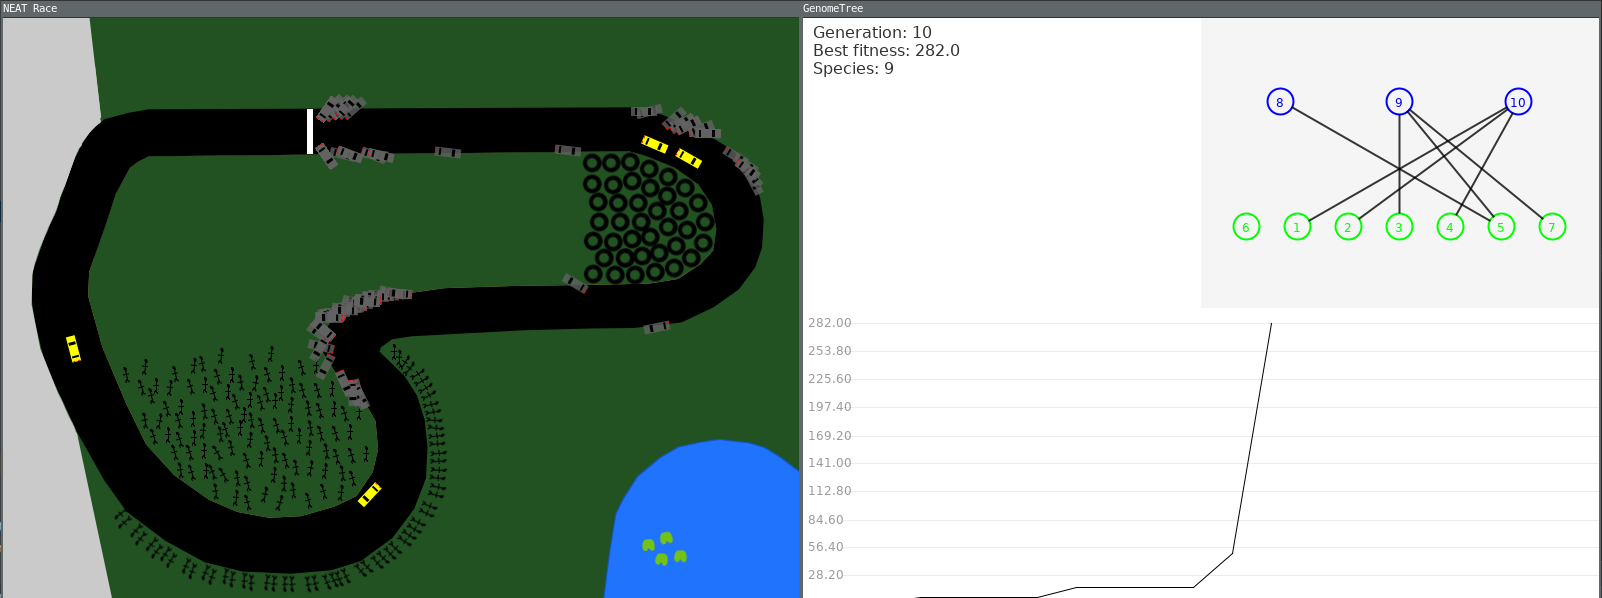
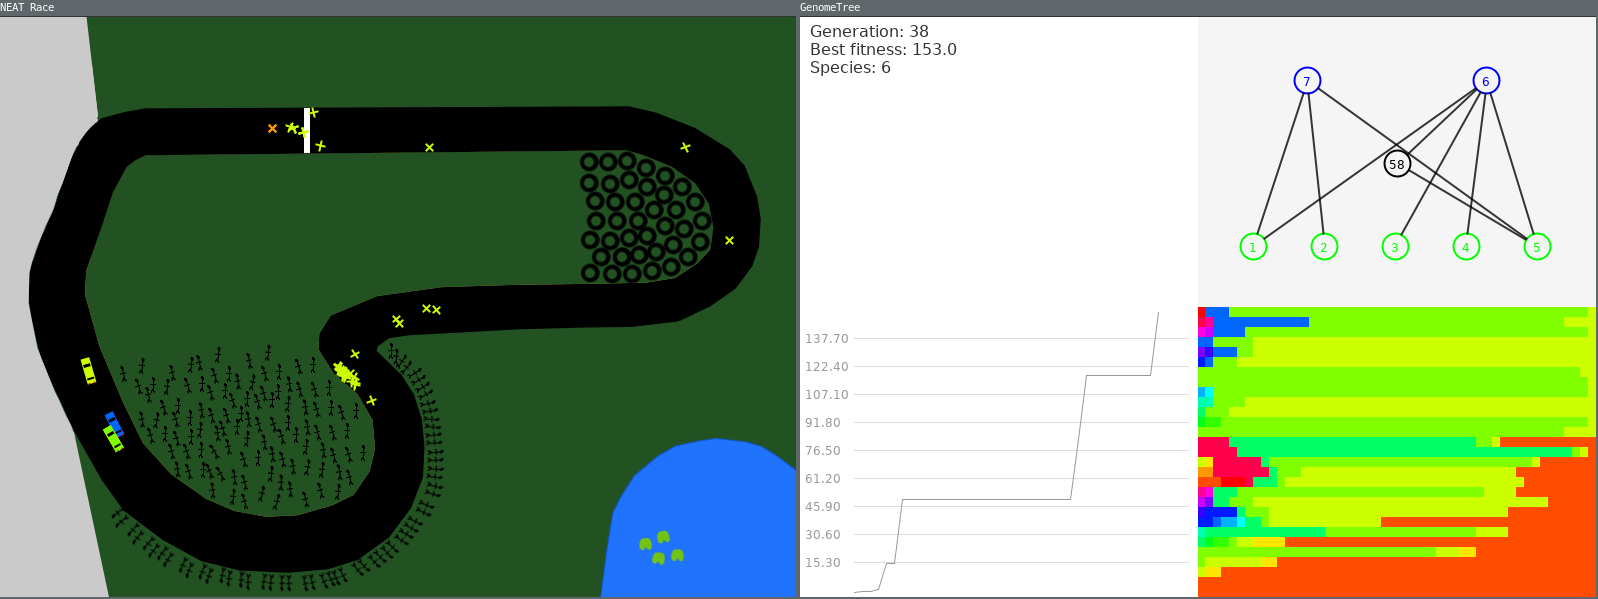
GUI moved from neat to neat-gui.

diff --git a/src/main/java/com/vadeen/race/gui/Race.java b/src/main/java/com/vadeen/race/gui/Race.java
@@ -26,7 +26,7 @@ import java.util.Collections;
 import java.util.List;
 
 public class Race {
-    private static final int TARGET_FITNESS = 200;
+    private static final int TARGET_FITNESS = 500;
     private static final int MAX_GENERATIONS = 500;
 
     private static final List<Sensor> SENSORS = Arrays.asList(
@@ -61,9 +61,9 @@ public class Race {
             // Show info about the new generation.
             visualPanel.addGeneration(g);
 
-
             // Simulate the best genome if it is better than the last simulation we saw.
             bestGenome = g.getBestGenome();
+
             if (bestGenome.getFitness() > lastFitness) {
                 raceContext.reset();
                 List<Species> allSpecies = copyAllSpecies(g);
@@ -114,6 +114,8 @@ public class Race {
 
     private static Neat createNEAT(GenomeEvaluator evaluator) {
         Neat neat = Neat.create(evaluator, SENSORS.size(), 2);
+
+        neat.getGenerationFactory().setPopulationSize(50);
 
         // Config mutator
         GenomeMutator mutator = neat.getMutator();

diff --git a/src/main/java/com/vadeen/race/neat/RaceEvaluator.java b/src/main/java/com/vadeen/race/neat/RaceEvaluator.java
@@ -2,6 +2,7 @@ package com.vadeen.race.neat;
 
 import com.vadeen.neat.genome.Genome;
 import com.vadeen.neat.genome.GenomePropagator;
+import com.vadeen.neat.gui.Gui;
 import com.vadeen.neat.species.Species;
 import com.vadeen.race.game.Car;
 import com.vadeen.race.game.RaceContext;
@@ -60,7 +61,7 @@ public class RaceEvaluator {
 
         // Create propagators and add cars to track.
         for (Species s : species) {
-            Color speciesColor = Color.getHSBColor((s.getId()/20.0f)%1.0f, 1.0f, 0.8f);
+            Color speciesColor = Gui.colorOfId(s.getId());
 
             for (Genome g : s.getGenomes()) {
                 Car car = new Car(speciesColor);
